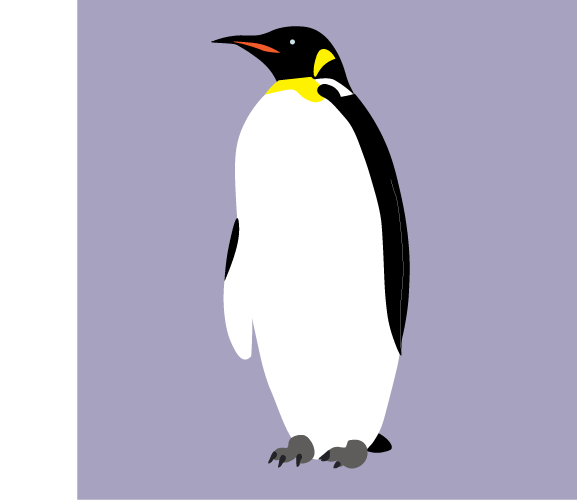
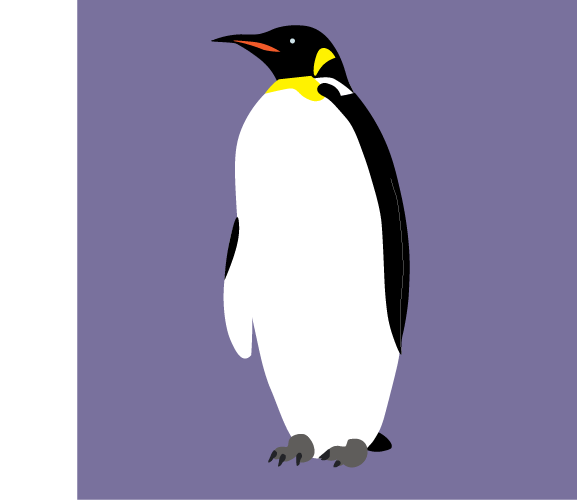
colors

diff --git a/css/main.css b/css/main.css
@@ -9,11 +9,11 @@
 }
 
 #africanall {
-    background-color: #648ba8;
+    background-color: #557B97;
 }
 
 #emperorall {
-  background-color: #a7a2bf;
+  background-color: #79719D;
 }
 
 #rockhopperall {
